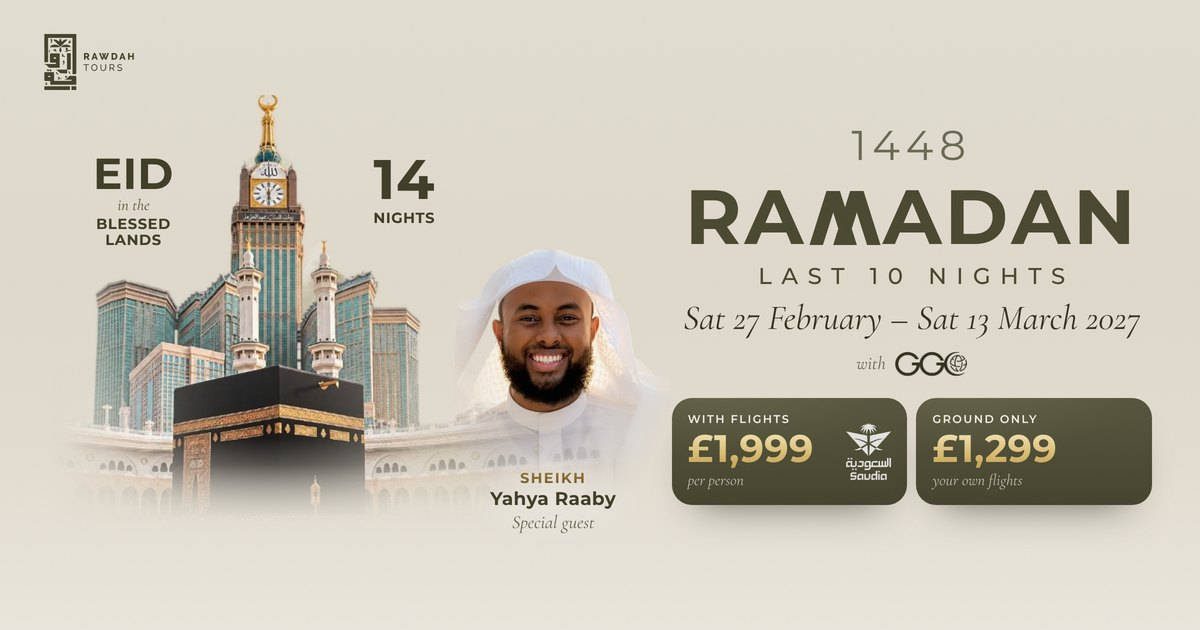
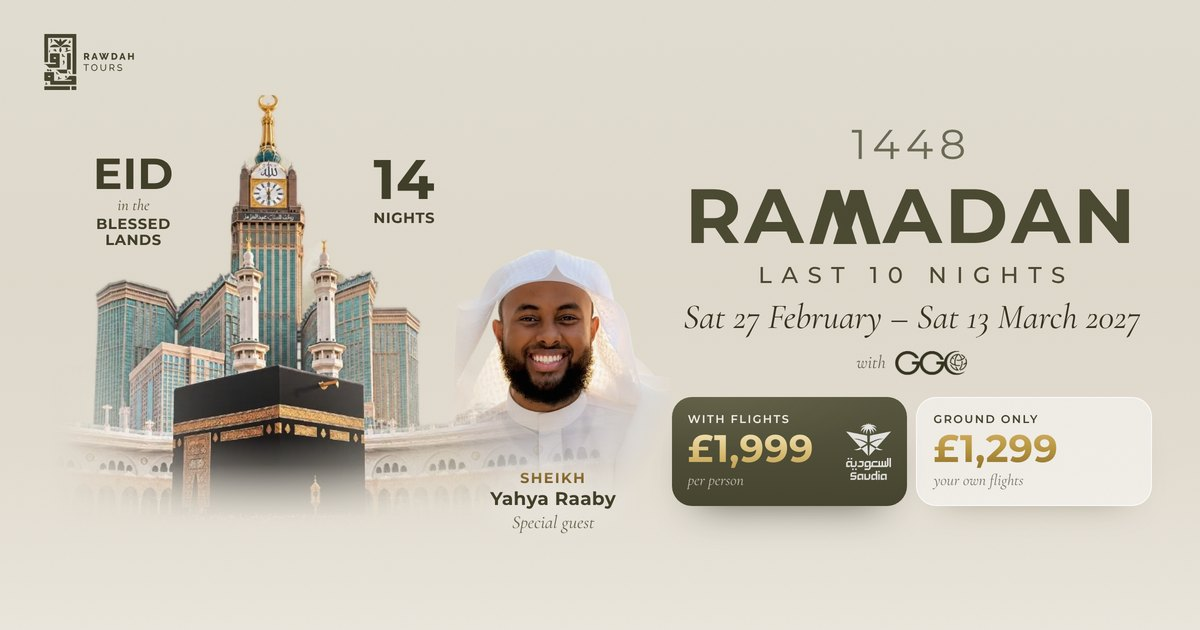
Hero: ground only keeps its light tile, with the gold figure of with flights
Claude-Session: https://claude.ai/code/session_013xXjSaaGAVLX8VaZzFTHcm

diff --git a/src/app/globals.css b/src/app/globals.css
@@ -1713,10 +1713,11 @@ html.motion .fb-item.rv.in .fb-text { opacity: 1; transform: none; }
 .rl-flights .rl-sub { color: rgb(241 238 230 / 0.72); }
 .rl-saudia { width: 2.4rem; height: auto; flex: none; filter: brightness(0) invert(1); opacity: 0.85; }
 .rl-k { white-space: nowrap; }
-/* Ground only matches with flights (Jibril, 20 Nov 2026): the same olive tile, the same gold figure. */
-.rl-ground { color: #f1eee6; background: radial-gradient(120% 90% at 20% 0%, rgb(255 236 180 / 0.08) 0%, transparent 60%), linear-gradient(180deg, #57563f 0%, #45442e 100%); box-shadow: 0 22px 40px -26px rgb(37 36 24 / 0.75); }
-.rl-ground .rl-price { background-image: linear-gradient(180deg, #f6e8bb 0%, #dcbf76 60%, #c4a254 100%); }
-.rl-ground .rl-sub { color: rgb(241 238 230 / 0.72); }
+/* Ground only keeps its light tile; its figure takes the gold of the with-flights one (Jibril, 20 Nov 2026: "the button
+   to be the same, just the gold writing"), a step deeper at its foot so it still reads on stone. */
+.rl-ground { color: #45442e; background: rgb(255 255 255 / 0.5); border: 1px solid rgb(255 255 255 / 0.85); box-shadow: 0 18px 34px -28px rgb(60 48 20 / 0.5); }
+.rl-ground .rl-price { background-image: linear-gradient(180deg, #d2b162 0%, #b8963f 50%, #94742f 100%); }
+.rl-ground .rl-sub { color: rgb(51 50 31 / 0.66); }
 .rl-book { display: inline-flex; width: 100%; min-height: 3.4rem; align-items: center; justify-content: center; gap: 0.5rem; border-radius: 1rem; font-size: 1rem; font-weight: 500; }
 .rl-note { display: flex; flex-wrap: wrap; justify-content: center; font-size: 0.86rem; line-height: 1.5; color: rgb(from var(--color-ink) r g b / 0.7); }
 @media (max-width: 23.99rem) { .rl-saudia { display: none; } }

diff --git a/docs/adr/0006-the-garden.md b/docs/adr/0006-the-garden.md
@@ -266,5 +266,6 @@ our writing in gold look like The Umrah Company"), agreed to the cuts, and asked
   about 20 screens, down from 26.
 - **Fixes before merging**: the feature band showed twice on desktop (its phone copy wasn't hidden); the link preview
   is now the hero itself (`shareImage`, site-wide `opengraph-image.jpg`; `scripts/share-image.py` remakes it).
-- **Hero touches** (same day): "SHEIKH" over Sheikh Yahya's name in the deep gilt; the ground-only tile matches the
-  with-flights one (olive, gold figure). The link preview was remade to match.
+- **Hero touches** (same day): "SHEIKH" over Sheikh Yahya's name in the deep gilt; the ground-only tile keeps its light
+  stone and its figure takes the with-flights gold, a step deeper at its foot to read on stone (Jibril: "the button to be
+  the same, just the gold writing"). The link preview was remade to match.
